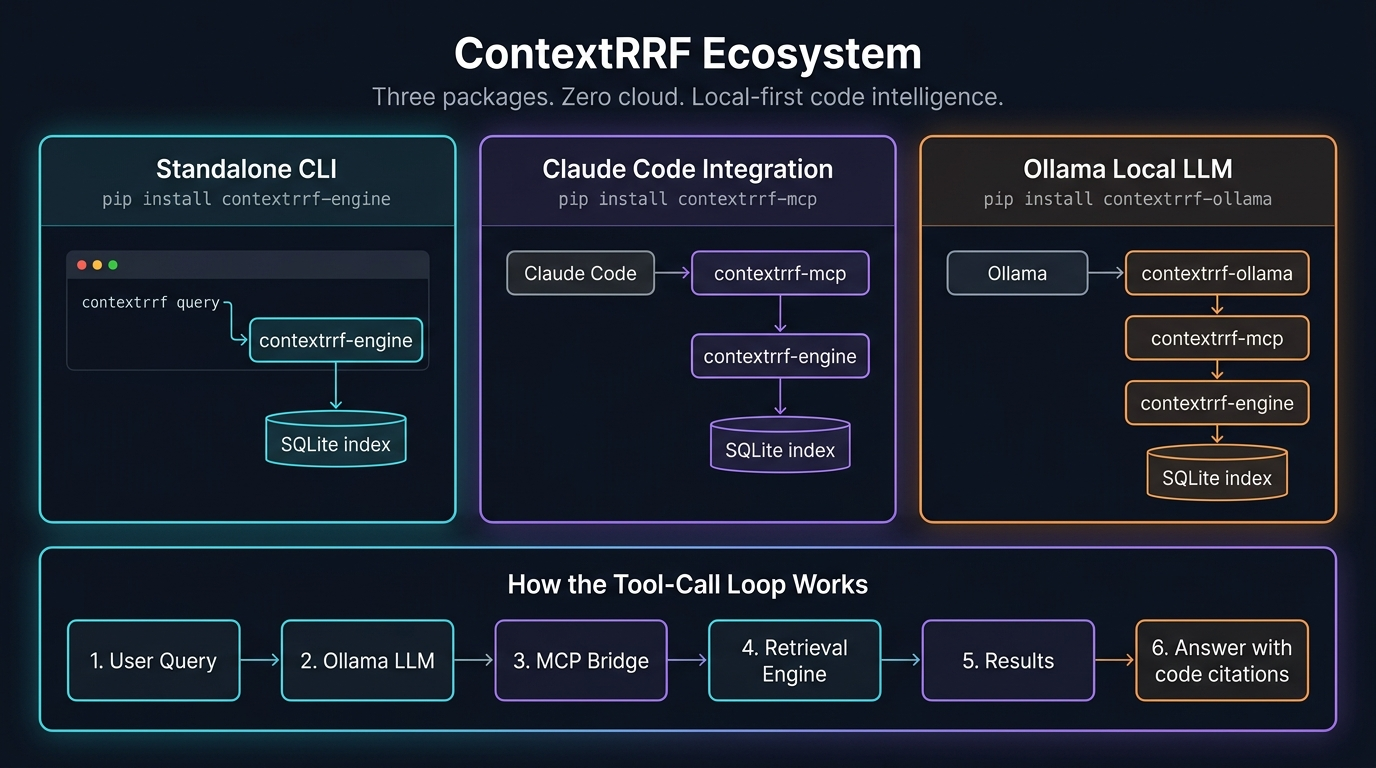
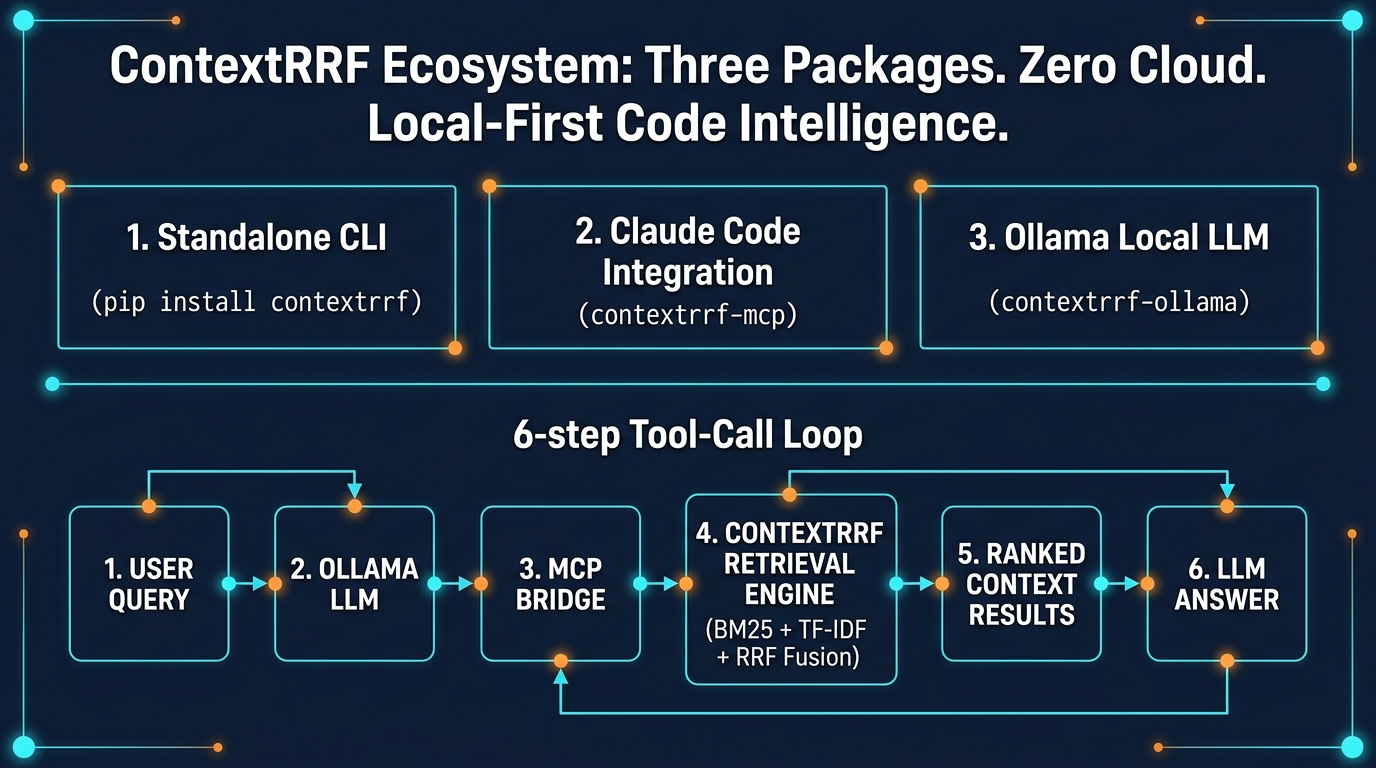
docs: update ecosystem section and high-res diagram details

diff --git a/README.md b/README.md
@@ -19,7 +19,22 @@ ContextRRF is a zero-dependency, high-performance hybrid information retrieval e
 
 ![ContextRRF Ecosystem](docs/assets/contextrrf-ecosystem.png)
 
-ContextRRF indexes your codebase and documents into a local SQLite store, scores every chunk with a multi-signal hybrid retriever, compresses results with AST awareness, and returns exactly what you need within a token or result budget. Supports source code (Python, JS/TS, Go, Rust, C#, Java, Kotlin), documents (PDF, DOCX, CSV, plaintext), and database schemas (SQL DDL, JSON snapshots, SQLite introspection). It runs entirely locally — no API keys, no cloud, no runtime dependencies beyond Python 3.11+.
+ContextRRF provides a local-first, zero-cloud code intelligence ecosystem comprising three decoupled packages:
+
+* **`contextrrf-engine` (Standalone CLI & Core Engine):** Indexes codebases, documents (PDF, DOCX, CSV, txt), and database schemas (DDL, JSON, SQLite) into a local SQLite store. Scores every chunk with a 6-signal hybrid retriever (BM25 + TF-IDF + symbols + usage + RRF) and compresses context with AST awareness.
+* **`contextrrf-mcp` (Claude Code Integration):** Standard Model Context Protocol (MCP) stdio server allowing Claude Code and MCP-compatible agents native access to hybrid codebase retrieval in a single tool call.
+* **`contextrrf-ollama` (Ollama Local LLM Bridge):** Orchestrates full tool-calling loops between your local LLM (Gemma 3, Qwen, Llama, Phi) and the codebase.
+
+### How the Tool-Call Loop Works
+
+`contextrrf-ollama` orchestrates the full cycle between your local LLM and the codebase:
+
+1. **USER QUERY:** User asks a question (e.g. *"How does authentication middleware work?"*).
+2. **OLLAMA LLM:** Local LLM evaluates prompt and decides to call `search()`.
+3. **MCP BRIDGE:** `contextrrf-ollama` routes the tool call through `contextrrf-mcp`.
+4. **RETRIEVAL ENGINE:** `contextrrf-engine` executes 6-signal search, RRF rank fusion, and AST-aware compression.
+5. **RESULTS:** Ranked, budget-optimized code chunks are returned to the LLM context window.
+6. **ANSWER:** The LLM responds to the user citing exact source code lines (e.g. `src/auth.py:42`).
 
 ---
 
